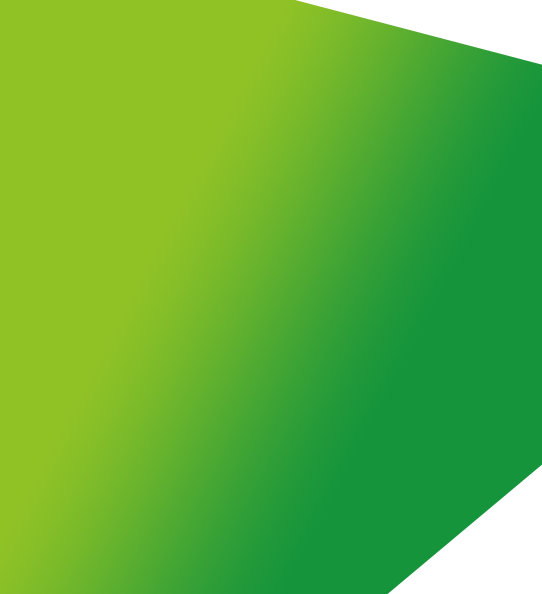
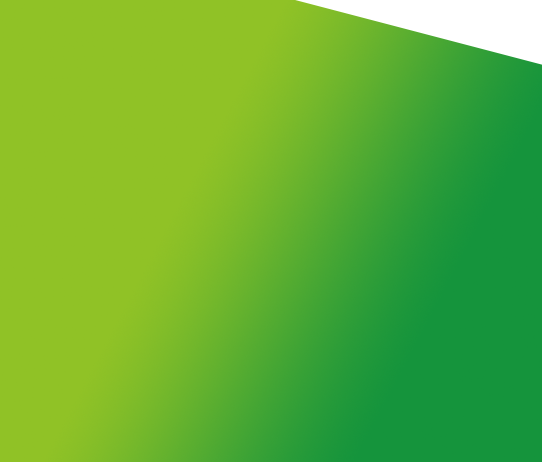
vision page

diff --git a/public/css/popupMenu.css b/public/css/popupMenu.css
@@ -1,4 +1,8 @@
-
+:root{
+  --home-bg-color: #124107;
+  --product-color:#d3c37b;
+  --aging-color:#a0350a;
+}
 html, body, ul, ul li {
   margin: 0;
   padding: 0;
@@ -23,7 +27,7 @@ html, body, ul, ul li {
   background-color: #043106;
   cursor: pointer;
   position: absolute;
-  top: 25%;
+  top: 55%;
   transform: translateY(-50%);
 /*   left: 0;
   right: 0; */
@@ -56,16 +60,15 @@ html, body, ul, ul li {
 }
 .menu-items-container li:hover {
   cursor: pointer;
-  color: #fff;
 }
 .menu-items-container li:nth-child(1):hover {
-  background-color: #3bb1f4;
+  background-color: var(--home-bg-color);
 }
 .menu-items-container li:nth-child(2):hover {
-  background-color: #f8dc3d;
+  background-color: var(--product-color);
 }
 .menu-items-container li:nth-child(3):hover {
-  background-color: #dd4b39;
+  background-color: var(--aging-color);
 }
 .menu-items-container li:nth-child(4):hover {
   background-color: #429f46;
@@ -83,16 +86,16 @@ html, body, ul, ul li {
   border-radius: 100%;
 }
 .home-icon {
-  background-color: #3bb1f4;
-  border: #3bb1f4;
+  background-color: var(--home-bg-color);
+  border: var(--home-bg-color);
 }
 .about-icon {
-  background-color: #f8dc3d;
-  border: #f8dc3d;
+  background-color: var(--product-color);
+  border: var(--product-color);
 }
 .profile-icon {
-  background-color: #dd4b39;
-  border: #dd4b39;
+  background-color: var(--aging-color);
+  border: var(--aging-color);
 }
 .gallery-icon {
   background-color: #429f46;
@@ -136,4 +139,6 @@ html, body, ul, ul li {
   clear: both;
 }
 /* An overlay div that holds the navigation menu */
-
+a:hover{
+  color: black;
+}

diff --git a/public/css/style.css b/public/css/style.css
@@ -3,6 +3,7 @@
     --emcolor: #e06c00;
     --navbar-bg-color: #043106;
     --presentation-bg-color: #5d8b06;
+    --text-link:#d3c37b;
 }
 html {
     overflow-x: hidden;
@@ -89,7 +90,7 @@ em {
 }
 
 .text-site-or {
-    color: #d3c37b;
+    color: var(--text-link);
 }
 
 .dropdown {
@@ -105,7 +106,7 @@ em {
 }
 a {
     text-decoration: none;
-    color: #d3c37b;
+    color: var(--text-link);
 }
 .active a {
     color: #0bac0b !important;
@@ -116,23 +117,27 @@ a {
 }
 h1.inscription,
 h1.connexion {
-    color: #043106;
+    color: var(--navbar-bg-color);
 }
 .text-area-height {
     height: 100px;
 }
 .button-philo {
-    border: 2px solid #d3c37b;
-    background-color: #043106;
+    border: 2px solid var(--text-link);
+    background-color: var(--navbar-bg-color);
     color: aliceblue;
 }
 
 .footer {
-    color: #d3c37b;
+    color: var(--text-link);
     font-size: 1.5vh;
     padding-bottom: 30px;
     min-height: 20em;
 }
 .index-image {
     height: 18rem;
+}
+.bg-vision{
+    background-color: var(--presentation-bg-color);
+    
 }

diff --git a/src/Controller/DashboardController.php b/src/Controller/DashboardController.php
@@ -59,37 +59,26 @@ class DashboardController extends AbstractController
      * @Route("/index")
      * @Template
      */
-    public function index(): array
-    {
-        return [];
-    }
+    public function index(){}
 
     /**
      * @Route("/history")
      * @Template
      */
-    public function history(): array
-    {
-        return [];
-    }
+    public function history(){}
 
     /**
      * @Route("/vision")
      * @Template
      */
-    public function vision(): array
-    {
-        return[];
-    }
+    public function vision(){}
 
     /**
      * @Route("/objective")
      * @Template
      */
-    public function objective(): array
-    {
-        return [];
-    }
+    public function objective(){}
+    
 
     /**
      * This method is used to modify the language of the site
